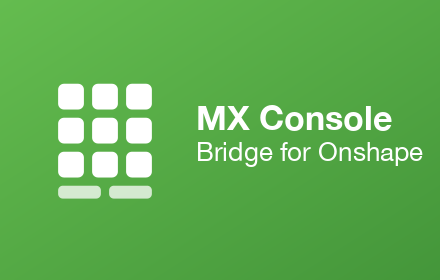
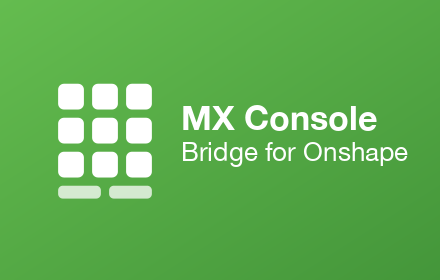
Close up the gap on the small promo tile

Changed region(s): [[0.4136, 0.3714, 0.975, 0.6]]

diff --git a/tools/make_store_assets.py b/tools/make_store_assets.py
@@ -109,8 +109,8 @@ def promo_small():
     img.paste(mark, (30, 65), mark)
 
     draw = ImageDraw.Draw(img)
-    draw.text((196, 96), "MX Console", font=font(34, bold=True), fill=WHITE)
-    draw.text((196, 136), "Bridge for Onshape", font=font(26), fill=WHITE)
+    draw.text((181, 96), "MX Console", font=font(34, bold=True), fill=WHITE)
+    draw.text((181, 136), "Bridge for Onshape", font=font(26), fill=WHITE)
     img.save(OUT / "promo-small.png")
 
 
